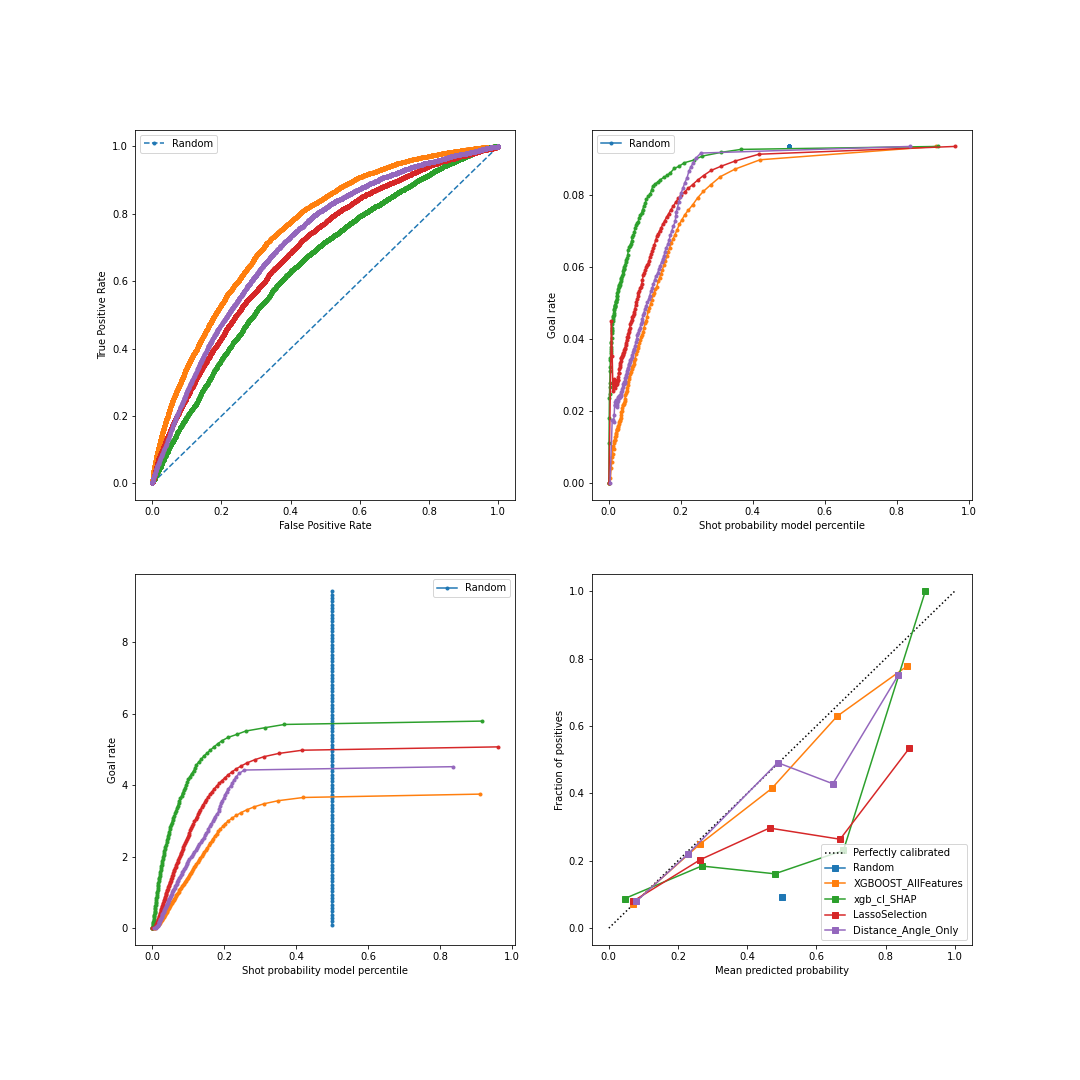
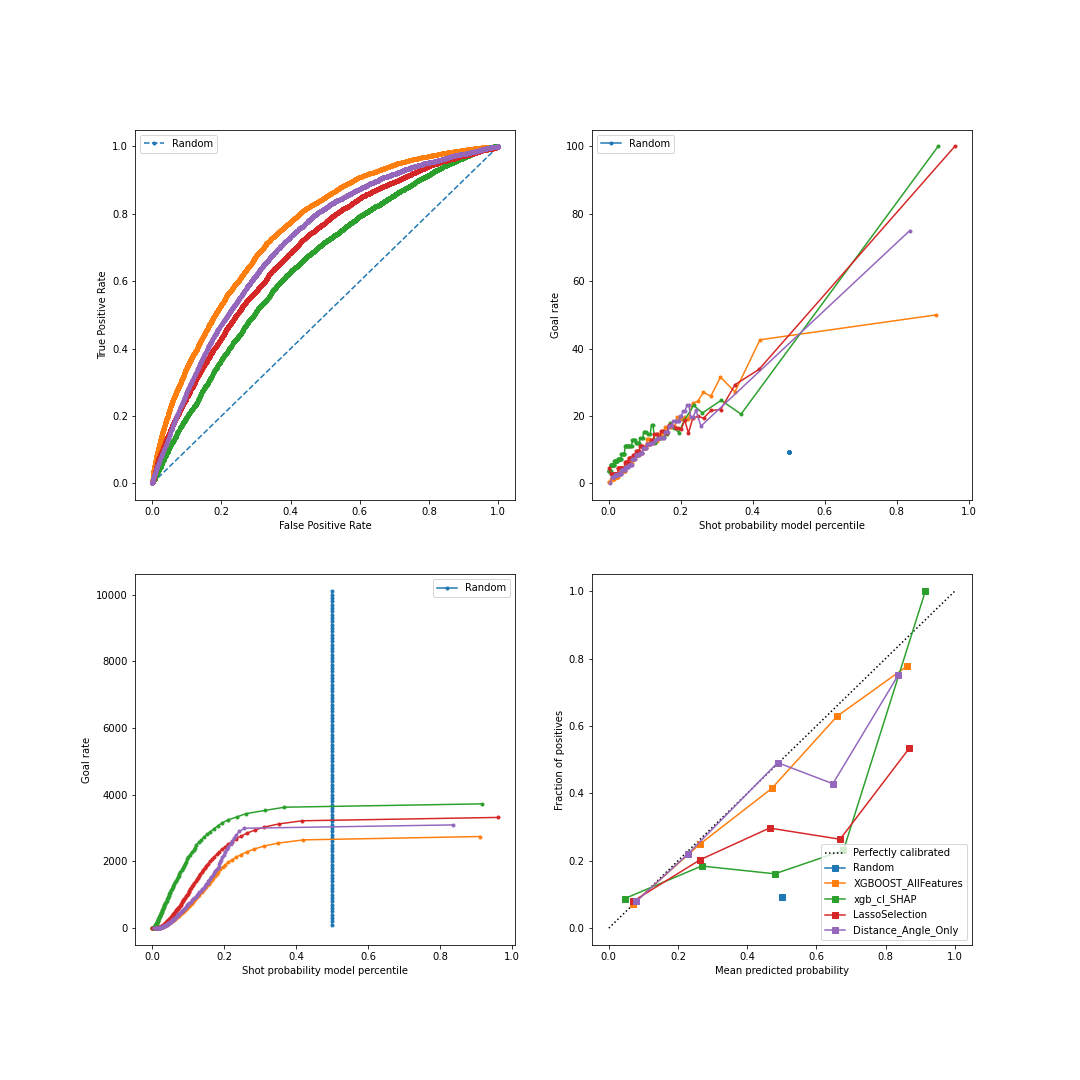
figures

diff --git a/_posts/2021-11-21-Milestone2.md b/_posts/2021-11-21-Milestone2.md
@@ -37,7 +37,7 @@ The **learning rate** is controlled by the ETA parameter. It defines the amount 
 
 **Tuning the Number of Decision Trees in XGBoost:**
 <br />
-We run a **grid search**  of the n estimators (number of decison trees) model parameter with scikit-learn, assessing this sequence of values (50, 150, 200, 250, 300, 350,400) We note that the  default in the XGBoost library is 100 . In order to evaluate the results of each configuraton we use F1 score. We obtain the best results 350. 
+We run a **grid search**  of the n estimators (number of decison trees) model parameter with scikit-learn, assessing this sequence of values (50, 150, 200, 250, 300, 350,400) We note that the  default in the XGBoost library is 100 . In order to evaluate the results of each configuraton we use F1 score, since we are faced to imbalanced class distribution to evaluate our model on. We obtain the best results 350. 
 
 
 **Results:** <br />
@@ -101,7 +101,7 @@ A second option was to run **Lasso**:
 In this case only two features are suggested to be selected: ['distanceFromNet', 'speed']. We peroform then a second XGboost with the already tuned  parameters previously but this time using these two features and a feature related to previousEvent. 
 We obtain these results. 
 <figure>
-<img src="/assets/milestone2/Confusion_Matrix_SelectedFeatures_Lasso.png" alt="">
+<img src="/assets/milestone2/Confusion_Matrix_SelectedFeaturesLasso.png" alt="">
 <figcaption style="text-align:center;">Figure 5.1:Confusion Matrix_XGboost Tuned, input:  selected features by Lasso</figcaption>
 </figure>
  <br />
@@ -109,16 +109,28 @@ We obtain these results.
 
 **Feature Selection using Wrapper methods:** 
 <br />
-We thought about using Feature importance scores  for feature selection and this was done by using selectFromModel class already provided by sklearn. Athreshold is provided to this method to select a set of features, in our case (wrapper method) this threshold is obtained after first training  and then evaluating an XGBoost model on the entire training dataset and test datasets respectively.
+We thought about using Feature importance scores  for feature selection and this was done by using selectFromModel class already provided by sklearn. Athreshold is provided to this method to select a set of features, in our case (wrapper method) this threshold is obtained after first training  and then evaluating an XGBoost model on the entire training dataset and test datasets respectively. 
+After observing  the results of this method we didn't consider it in the discussion since no emprovement was noted.  
 
-| Classifier                                  | AUC of ROC  |brier_score_loss|
-|---------------------------------------------|:----------:|:----------:|
-| XGboost (distanceFromNet & angle)           | 0.5014     | 0.0934     |
-| XGboost All features                        | 0.5026     | 0.0935     |  
-| XGboost SHAP features                       |0.5017      |  0.0948    |
-| XGboost Lasso features (angle+distance)     |0.5045      | 0.0950     | 
-| Random baseline with uniform distribution   | 0.5        |            |       
+**Summary of the considered Models:** 
+We present in this table the different values for several metrics used to evaluate the implemented models: 
 
+
+| Classifier                                  | AUC of ROC  |brier_score_loss|Accuracy|F1_score|
+|---------------------------------------------|:----------:|:----------:|:----------:|:----------:|
+| XGboost (distanceFromNet & angle)           |0.716       | 0.0934     |0.9066     |0.86273 |
+| XGboost All features                        |0.754       | 0.0935     | 0.907     |0.86273|  
+| XGboost SHAP features                       |0.646       | 0.0948     |     0.905 |0.862425|
+| XGboost Lasso features                      |0.691       | 0.0950     |  0.905    |0.863467|
+| Random baseline with uniform distribution   | 0.5        |            | 0.5021    |         |
+
+Besides these metrics, our decision were taken also based on the four figures as quantitative metrics:
+: 
+<figure>
+<img src="/assets/milestone2/AllFigures.png" alt="">
+<figcaption style="text-align:center;">Figure 5.1: Figures of Quantitative metrics </figcaption>
+</figure>
+ <br />
 
 ## Task 6: Give it your best shot! 
 
